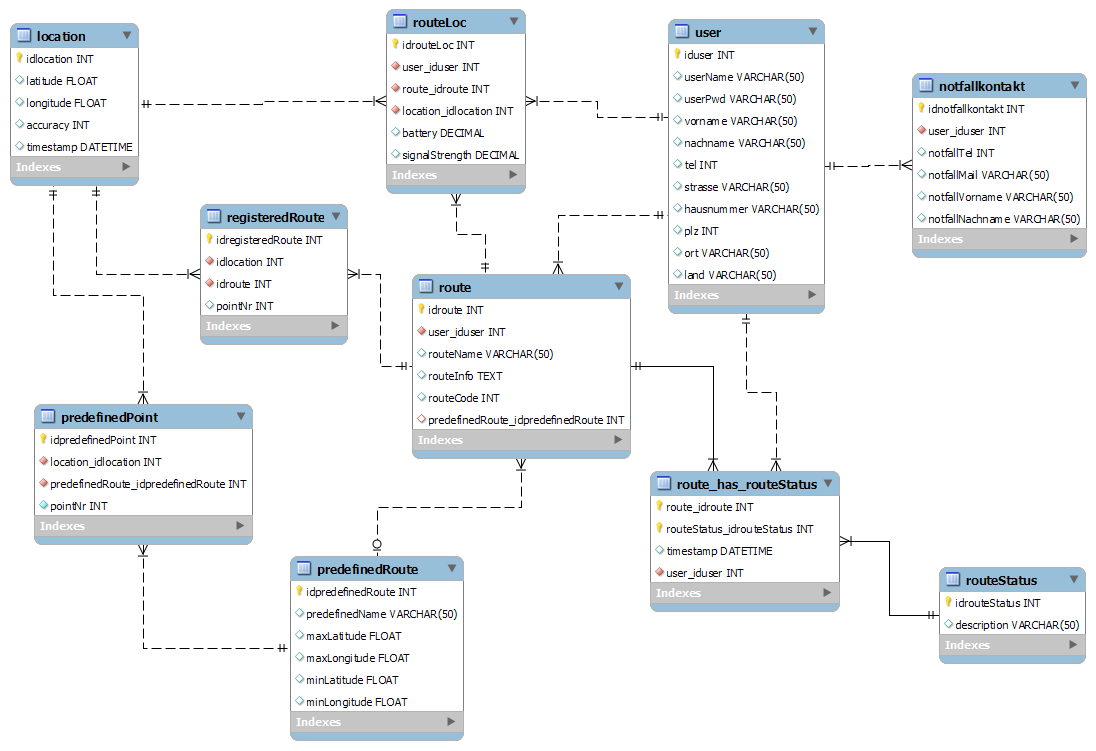
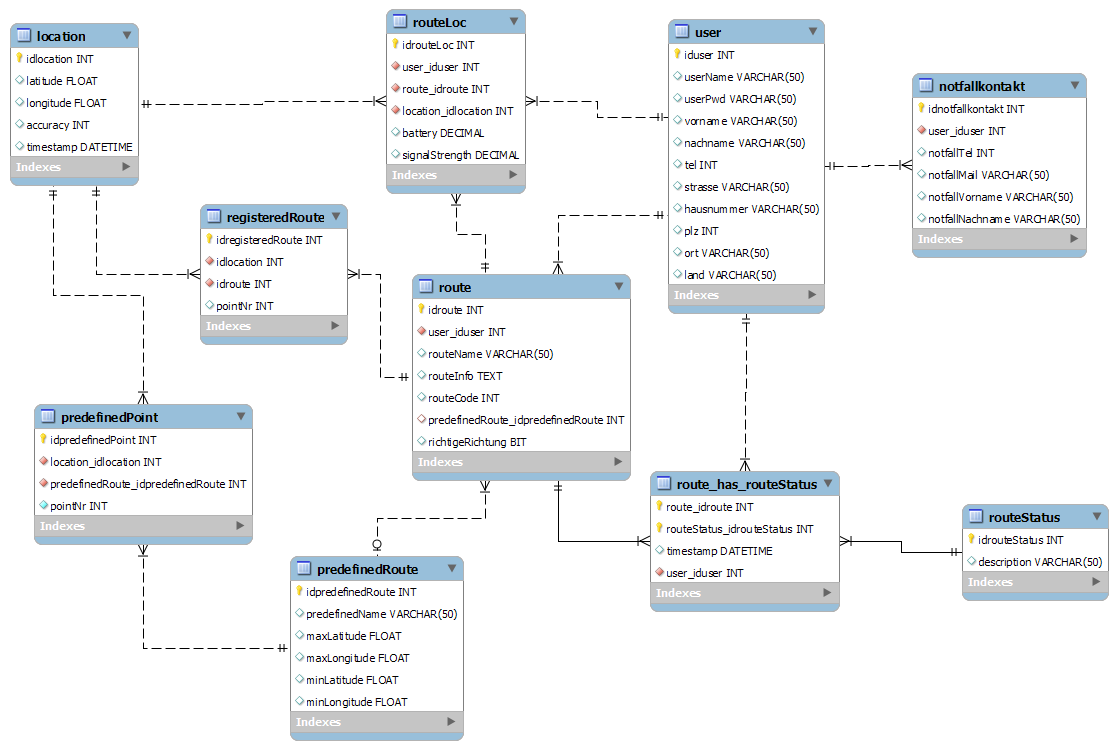
Backend: insertGPX, requestGPX, inserteigeneRoute
alle anfragen an die communicator.php (POST), im json-Feld "type" wird
unterschieden, was damit gemacht wird.

NOT TESTED

diff --git a/Server/Main.class.php b/Server/Main.class.php
@@ -1,0 +1,303 @@
+<?php
+
+require_once('database.php');
+
+class Main 
+{	//Attributes
+	
+	private static $currentGame; //instance of Game - current Game
+	private static $loggedInUser; //instance of User - the currently logged in user
+	private static $logger=array(); //array consisting out of Log instances
+	private static $selectedPlayground; //instance of Playground - currently selected Playground
+	
+	
+	//AUTOR: BIBI
+	//proves if the LogIn data is valid and if so
+	//returns every info about the user + his/her achieved trophies AND
+	//an gerneral trophy list (for the client to know when a trophy is achieved during a game)
+	//RETURN VALUE: JSON OBJECT
+	public static function login($email,$password)
+	{	$con = db_connect();
+	
+		$statement = $con->prepare("Select password, user_id from user where email = ?");
+		$statement->execute(array($email));
+		$result = $statement;
+	
+	
+		if($result->rowCount()==1) //user mail was correct
+		{	$row = $result->fetch(PDO::FETCH_ASSOC);
+
+			if($row['password']==hash('sha256',$password))
+				return $row['user_id']; //valid logIn
+			else
+				return "e103"; //Wrong password
+		}
+		else //user mail was not correct!!
+			return "e102";
+	}
+	
+	//AUTOR: BIBI
+	//registers a new user
+	//RETURN VALUE: string - error code or OK
+	public static function register($email, $password, $username)
+	{	$con = db_connect();
+	
+		if(!is_string($con))
+		{	//Step 1 see if mail adress is not already registered
+			$statement = $con->prepare("Select * from user where email= ?");
+			$statement->execute(array($email));
+			$result = $statement;
+			
+			if($result->rowCount()!=0)//if a result was found --> mail already registered!!
+				return "e101";
+			else
+			{	//if everything is ok then insert
+				$query = "Insert into user (email,username,password) values (?,?,?)";
+				$statement = $con->prepare($query);
+				$statement->execute(array($email,$username,hash('sha256',$password)));
+				$id = $con->lastInsertId();
+				return "OK";
+			}
+		}
+		else
+			return "e100";
+	}
+	
+	
+	//This function parses the Request JSON oject and depending on which type of Request
+	//calls the necessary mehtods, functions.... and finally returns a appropriate response JSON object
+	//PARAMETERS: string $type - type of request
+	//            object $obj - the request JSON object
+	//RETURN VALUE: JSON OBJECT
+	public static function allocateJSON($type,$obj)
+	{	switch($type)
+			{
+			case 'register':
+				$registerobj=$obj['object'];
+					$ret = Main::register($registerobj['email'],$registerobj['password'],$registerobj['username']); //call register function
+					if($ret != "OK")
+						$data = array('type'=>'User','loggedInUser'=>array('error'=>$ret));
+					else
+						$data = Main::allocateJSON('login',$registerobj);
+					break;
+			case 'login':
+			$loginobj=$obj['object'];
+					$ret = Main::login($loginobj['email'],$loginobj['password']);
+					if(!is_numeric($ret))
+						$data = array('type'=>'User','loggedInUser'=>array('error'=>$ret));
+					else
+						$data = array('type'=>'User','loggedInUser'=>array('password'=>$loginobj['password']),'userID'=>$ret);				
+					break;
+			//Autor:tom
+			case 'gpx':
+					$ret=Main::insertGPX($obj);
+					if(!is_numeric($ret))
+					{
+						$data = array('success'=>'false','loc'=>array('error'=>$ret));
+					}
+					else
+					{
+						$obj['id']=$ret;
+						$obj['success']=true;
+						$data=$obj;
+					}
+					break;
+			case 'requestGpx':
+					{
+						$ret=Main::getGPX($obj['coords']);
+						if(!is_numeric($ret))
+						{
+						  $data = array('success'=>false);
+					  	}
+					  	else
+					  	{
+						  
+						  $data=$ret;
+					 	}
+					}
+			case 'eigeneRoute':
+					$ret=Main::insertOwnRoute($obj);
+					if(!is_numeric($ret))
+						{
+						  $data = array('success'=>false);
+					  	}
+					  	else
+					  	{
+						  
+						  $data=$ret;
+						  $data['success']=true;
+					 	}
+					break;
+					
+			
+			
+		}
+		
+		return $data;
+	}
+
+	
+	//creates a new Log Entry out of the relevant data
+	public static function createNewLogEntry()
+	{
+	}
+	
+	public static function insertGPX($obj)
+	{
+		$con = db_connect();
+		
+		if(!is_string($con))
+		{	//Step 1 see if mail adress is not already registered
+			$statement = $con->prepare("Select * from predefinedRoute where predefinedName= ?");
+			$statement->execute(array($obj['name']));
+			$result = $statement;
+			$routeid=0;
+			
+			if($result->rowCount()!=0)//if a result was found --> mail already registered!!
+				return "e101";
+			else
+			{	
+				
+				//if everything is ok then insert
+				$query = "Insert into predefinedRoute (predefinedName,maxLatitude,maxLongitude,minLatitude,minLongitude) values (?,?,?,?,?)";
+				$statement = $con->prepare($query);
+				$statement->execute(array($obj['name'],$obj['latmax'],$obj['lonmax'],$obj['latmin'],$obj['lonmin']));
+				$routeid = $con->lastInsertId();
+				
+				$coords=$obj['coords'];
+				for($i=0; $i<count($coords); $i++)
+				{
+					$locCoords=$coords[$i];
+					$query = "Insert into location (latitude,longitude) values (?,?)";
+					$statement = $con->prepare($query);
+					$statement->execute(array($locCoords['lat'],$locCoords['long']));
+					$locid = $con->lastInsertId();
+					
+					$query = "Insert into predefinedPoint (location_idlocation,predefinedRoute_idpredefinedRoute, pointNr) values (?,?,?)";
+					$statement = $con->prepare($query);
+					$statement->execute(array($locid,$routeid,$i));
+					
+				}
+				
+				
+				return $routeid;
+				
+				
+			}
+		}
+		else
+			return "e100";
+	}
+	
+	public static function insertOwnRoute($obj)
+	{
+		$con = db_connect();
+		
+		if(!is_string($con))
+		{	//Step 1
+			//checkCode
+			
+			$code=rand();
+			$foundCode=false;
+			while(!$foundCode)
+			{
+			  $statement = $con->prepare("Select * from route where routeCode= ?");
+			  $statement->execute(array($obj['name']));
+			  $result = $statement;
+			  if($result->rowCount()==0)
+			  {
+				  $foundCode=true;
+			  }
+			}
+		
+			$statement = $con->prepare("insert into route (user_iduser, routeInfo,routeCode,predefinedRoute_idpredefineRoute,richtigeRichtung values(?,?,?,?,?,?)");
+			$statement->execute(array($obj['userID'],$obj['info'],$code,$obj['gpxID'],$obj['richtigeRichtung']));
+			$result = $statement;
+			$routeid = $con->lastInsertId();	
+			
+				//if everything is ok then insert
+				$query = "Insert into route_has_status (route_idroute,routesStatus_idrouteStatus,user_iduser) values (?,?,?)";
+				$statement = $con->prepare($query);
+				$statement->execute(array($routeid,0,$obj['userID']));
+				
+				$coords=$obj['coords'];
+				for($i=0; $i<count($coords); $i++)
+				{
+					$locCoords=$coords[$i];
+					$query = "Insert into location (latitude,longitude) values (?,?)";
+					$statement = $con->prepare($query);
+					$statement->execute(array($locCoords['lat'],$locCoords['long']));
+					$locid = $con->lastInsertId();
+					
+					$query = "Insert into registeredRoute (idlocatin,idroute,pointNr) values (?,?,?)";
+					$statement = $con->prepare($query);
+					$statement->execute(array($locid,$routeid,$i));
+					
+				}
+				
+				
+				return array('routeID'=>$routeid,'success'=>true,'code'=>$code);
+				
+				
+			
+		}
+		else
+			return "e100";
+	}
+	
+	
+	
+	public static function getGPX($obj)
+	{
+		$con = db_connect();
+		
+		if(!is_string($con))
+		{	//
+				$query = $con->prepare("Select * from predefinedRoute where maxLatitude>= ? AND maxLongitude>=? AND minLatitude<=? AND min Longitude<=?");
+			
+				$statement = $con->prepare($query);
+				$statement->execute(array($obj['lat'],$obj['lon'],$obj['lat'],$obj['lon']));
+				$result = $statement;
+				$data=array(success=>true,'routes'=>array());
+				$i=0;
+				while($row = $result->fetch(PDO::FETCH_ASSOC))
+				{	
+					$pRouteID=$row['idpredefinedRoute'];
+					$pRouteName=$row['predefinedName'];
+					$pmaxLat=$row['maxLatitude'];
+					$pmaxLon=$row['maxLongitude'];
+					$pminLat=$row['minLatitude'];
+					$pminLon=$row['minLongitude'];
+					$data['routes'][$i]=array('id'=>$pRouteID,'name'=>$pRouteName);
+					
+					
+					$newquery = $con->prepare("Select latitude,longitude from location join predefinedPoint on idlocation=location_idlocation where predefinedRoute_idpredefineRoute=? ORDER BY pointNr ASC");
+					
+					$newstatement = $con->prepare($newquery);
+					$newstatement->execute(array($pRouteID));
+					$result = $statement;
+		
+					while($locrow = $result->fetch(PDO::FETCH_ASSOC))
+					{	
+							
+							array_push($data['routes'][$i]['coords'],array('lat'=>$locrow['latitude'],'long'=>$locrow['longitude']));	
+							//$locrow['latitude'].$locrow['longitude'];
+					}
+					
+					
+					$i++;
+				}
+				
+				return $data;
+				
+				
+			
+		}
+	}
+	
+	 	
+}
+
+
+
+?>

diff --git a/Server/communicator.php b/Server/communicator.php
@@ -1,0 +1,27 @@
+<?php
+
+require_once('Main.class.php');
+
+//prevent chaching
+header("Access-Control-Allow-Origin: *");
+header("Access-Control-Allow-Methods: POST, GET");
+header("Cache-Control: no-cache, must-revalidate"); // HTTP/1.1
+header("Expires: Sat, 26 Jul 1997 05:00:00 GMT"); // Datum in der Vergangenheit
+
+if (isset($_SERVER['HTTP_ACCESS_CONTROL_REQUEST_HEADERS'])){
+header("Access-Control-Allow-Headers: {$_SERVER['HTTP_ACCESS_CONTROL_REQUEST_H
+EADERS']}");
+}
+
+// The JSON standard MIME header.
+header('Content-type: application/json');
+
+if(isset($_POST['json']))
+{	$json_data = $_POST['json'];
+
+	$data = Main::allocateJSON($json_data['type'],$json_data);
+	
+	echo json_encode($data);
+}
+
+?>

diff --git a/Server/database.php b/Server/database.php
@@ -1,0 +1,16 @@
+<?php
+//AUTOR: BIBI
+//database connection
+
+//connect to mysql and selects database
+function db_connect()
+{	try{
+		$db = new PDO('mysql:host=mysql5;dbname=db_flock-0312_1', "flock-0312", "7wH4FWxL");
+		return $db;
+	} 
+	catch(PDOException $e) {
+		return "Could not Connect to Server!";
+	}
+}
+
+?>
